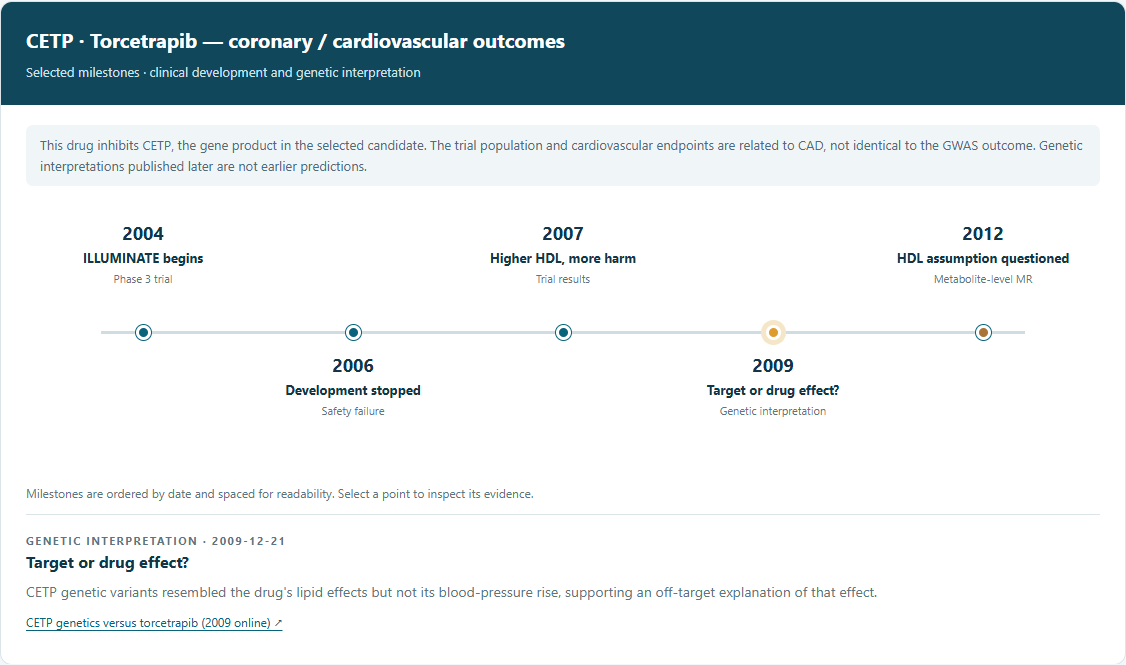
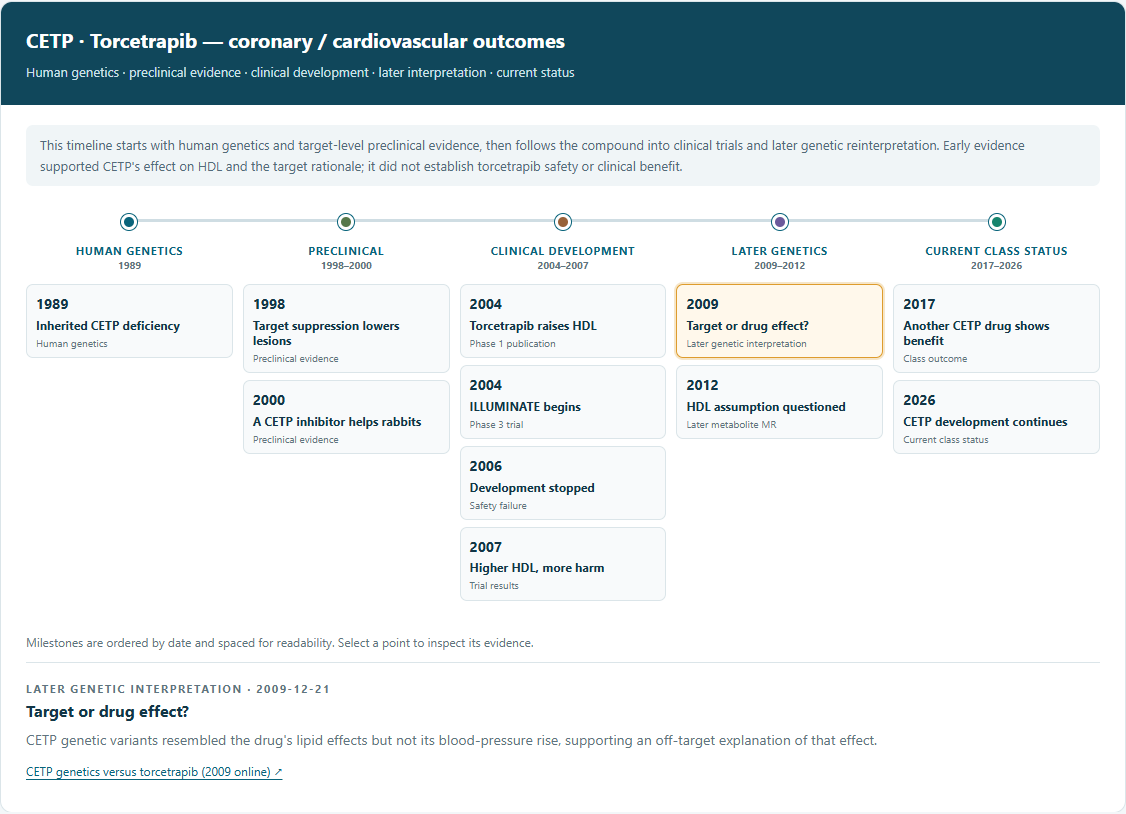
blog: show full evidence lifecycle and MVP roadmap (#2)

diff --git a/blog/metabocausal/index.html b/blog/metabocausal/index.html
@@ -16,8 +16,8 @@
 <meta property="og:url" content="https://shuchengcaoxin.github.io/blog/metabocausal/">
 <meta property="og:image" content="https://shuchengcaoxin.github.io/assets/blog/metabocausal-cetp-timeline.png">
 <meta property="og:image:width" content="1126">
-<meta property="og:image:height" content="665">
-<meta property="og:image:alt" content="A MetaboCausal timeline tracing CETP and torcetrapib from clinical development through genetic interpretation.">
+<meta property="og:image:height" content="814">
+<meta property="og:image:alt" content="A MetaboCausal timeline tracing CETP from human genetics and preclinical evidence through clinical development, later interpretation and current status.">
 <meta property="article:published_time" content="2026-09-12">
 <meta name="twitter:card" content="summary_large_image">
 <meta name="twitter:image" content="https://shuchengcaoxin.github.io/assets/blog/metabocausal-cetp-timeline.png">
@@ -75,6 +75,12 @@ figcaption{font-size:14px;line-height:1.5;color:var(--ink-3);margin-top:9px}
 .steps{display:grid;grid-template-columns:repeat(3,minmax(0,1fr));gap:10px;margin:22px 0}
 .step{background:var(--card);border:1px solid var(--line);border-radius:9px;padding:14px}
 .step b{display:block;color:var(--accent-ink);margin-bottom:5px}.step span{font-size:15px;line-height:1.5;color:var(--ink-2)}
+.roadmap{display:grid;gap:10px;margin:22px 0}
+.stage{background:var(--card);border:1px solid var(--line);border-radius:9px;padding:15px 17px}
+.stage b{display:block;font-family:var(--display);font-size:18px;margin-bottom:4px}
+.stage p{font-size:15px;line-height:1.55;color:var(--ink-2);margin:0}
+.stage .label{font-family:var(--sans);font-size:11.5px;letter-spacing:1.1px;text-transform:uppercase;color:var(--accent);margin-bottom:5px}
+.principles{padding-left:21px;margin:18px 0 24px}.principles li{margin-bottom:8px}
 .team{display:grid;grid-template-columns:repeat(2,minmax(0,1fr));gap:10px;margin:22px 0}
 .person{background:var(--card);border:1px solid var(--line);border-radius:9px;padding:14px}
 .person:first-child{grid-column:1/-1}
@@ -99,7 +105,7 @@ footer a{color:var(--ink-2);text-decoration:none}
 <article>
   <div class="kicker">MetaboCausal · Hackathon build</div>
   <h1>When a better blood marker is not a better medicine</h1>
-  <p class="standfirst">MetaboCausal connects genetic evidence to disease and drug-development history, helping teams decide what to test next.</p>
+  <p class="standfirst">MetaboCausal connects genetic evidence to disease and drug-development history, helping research and drug teams choose the next question worth testing.</p>
   <p class="byline">By <a href="/" rel="author">Shucheng Cao (Bangli Cao)</a> with the MetaboCausal team · 12 September 2026 · 4 min read</p>
 
   <h2>The problem</h2>
@@ -111,12 +117,13 @@ footer a{color:var(--ink-2);text-decoration:none}
   </div>
 
   <h2>A failure worth tracing</h2>
-  <p>Torcetrapib was designed to block CETP and raise HDL cholesterol, often called “good cholesterol.” The blood marker moved in the expected direction. But <a href="https://doi.org/10.1056/NEJMoa0706628" target="_blank" rel="noopener">the large trial was stopped ↗</a> after more deaths and cardiovascular events in the treatment group.</p>
+  <p>The story began before Phase 3. In 1989, <a href="https://pubmed.ncbi.nlm.nih.gov/2586614/" target="_blank" rel="noopener">an inherited CETP change ↗</a> was linked to much higher HDL. Target-level experiments in rabbits then <a href="https://pubmed.ncbi.nlm.nih.gov/9478952/" target="_blank" rel="noopener">reduced atherosclerotic lesions in 1998 ↗</a>, and <a href="https://pubmed.ncbi.nlm.nih.gov/10910363/" target="_blank" rel="noopener">another CETP inhibitor showed benefit in 2000 ↗</a>. These findings supported the biology, but they did not establish that torcetrapib itself would be safe or help patients.</p>
+  <p>Torcetrapib was designed to block CETP and raise HDL cholesterol, often called “good cholesterol.” A <a href="https://pubmed.ncbi.nlm.nih.gov/14739125/" target="_blank" rel="noopener">Phase 1 study published in 2004 ↗</a> showed that the blood marker moved in the expected direction. But <a href="https://doi.org/10.1056/NEJMoa0706628" target="_blank" rel="noopener">the large Phase 3 trial was stopped ↗</a> after more deaths and cardiovascular events in the treatment group.</p>
   <p>Later genetic studies helped separate two questions. One <a href="https://pubmed.ncbi.nlm.nih.gov/20026784/" target="_blank" rel="noopener">suggested that the rise in blood pressure ↗</a> was probably a drug-specific side effect. Another <a href="https://doi.org/10.1016/S0140-6736(12)60312-2" target="_blank" rel="noopener">challenged the assumption ↗</a> that raising HDL alone would automatically prevent heart attacks. A different CETP drug later <a href="https://doi.org/10.1056/NEJMoa1706444" target="_blank" rel="noopener">reduced coronary events ↗</a>. The lesson is more useful than a simple “target failed” label: <strong>the marker, the biological target and the drug itself are related, but they are not interchangeable.</strong></p>
 
   <figure>
-    <img src="/assets/blog/metabocausal-cetp-timeline.png" alt="Timeline of CETP and torcetrapib clinical development with later genetic interpretation" width="1126" height="665">
-    <figcaption>Our current recording example keeps the clinical events and later genetic interpretation on one source-linked timeline. Later evidence is labelled as later evidence; it is not presented as an earlier prediction.</figcaption>
+    <img src="/assets/blog/metabocausal-cetp-timeline.png" alt="Timeline of CETP human genetics, preclinical evidence, clinical development, later genetics and current class status" width="1126" height="814">
+    <figcaption>The corrected lifecycle view begins with human genetics and preclinical evidence, then follows clinical development, later interpretation and the target class’s current status. Target-level evidence is kept separate from evidence about one drug.</figcaption>
   </figure>
 
   <h2>What MetaboCausal does</h2>
@@ -130,15 +137,46 @@ footer a{color:var(--ink-2);text-decoration:none}
 
   <p>The system uses public research sources, including genetic databases, Europe PMC, Semantic Scholar, Open Targets and clinical-trial records. An AI model can explain the result in plain language, but the sources, numbers and dates remain visible for checking. The current integration supports OpenAI and Claude.</p>
 
-  <h2>What exists today</h2>
-  <p>For the hackathon, we built a working evidence-card pipeline, a browser demo and Slack-ready output. The first version starts from an existing table of molecule–disease results. We are now widening that evidence base through two independent literature searches, adding gene and pathway context, and turning the clinical timeline into a reusable step.</p>
+  <h2>How the product is improving</h2>
+  <p>We split the work into three MVPs—small, usable versions that each add one clear capability.</p>
+
+  <div class="roadmap" aria-label="MetaboCausal MVP roadmap">
+    <div class="stage">
+      <span class="label">MVP1 · Working core</span>
+      <b>Make one result understandable</b>
+      <p>Turn reviewed molecule–disease pairs into source-linked evidence cards, with browser and Slack output.</p>
+    </div>
+    <div class="stage">
+      <span class="label">MVP2 · Broader coverage</span>
+      <b>Find more useful questions</b>
+      <p>Expand the starting table from large studies and two independent literature searches, then match and remove repeated results before they move downstream.</p>
+    </div>
+    <div class="stage">
+      <span class="label">MVP3 · Deeper context</span>
+      <b>Connect the result to biology and development</b>
+      <p>Add gene, pathway, drug and clinical context, including Human-GEM, and rerun the same pipeline on the combined evidence.</p>
+    </div>
+  </div>
+
+  <p>This staged plan gives managers a visible product at every step, while letting technical contributors test each layer before the next one is added.</p>
+
+  <h2>What the technical design protects</h2>
+  <ul class="principles">
+    <li><strong>Traceability:</strong> dates, numbers and claims point back to sources.</li>
+    <li><strong>Separation:</strong> retrieval builds the evidence record; the AI model explains it.</li>
+    <li><strong>Challenge testing:</strong> in one Slack test, a teammate supplied a deliberately false premise. The system rejected the unsupported claim instead of inventing evidence. This passed test shows the safeguard working in that case; it is not a claim that any AI can never hallucinate.</li>
+    <li><strong>Reproducibility:</strong> the same structured pipeline can run again when new pairs arrive.</li>
+    <li><strong>Practical access:</strong> OpenAI and Claude are supported now, with user-provided model keys planned.</li>
+  </ul>
+
+  <p>The public description stays at the product level. The team’s prompts, matching rules, internal data structure and deployment details remain in the private working repository.</p>
 
   <div class="note">
     <p><strong>What it does not claim:</strong> MetaboCausal does not prove that a drug will work. It helps a team see the available evidence—and the gaps—before choosing the next test.</p>
   </div>
 
   <h2>Meet the team</h2>
-  <p>Five people are building different parts of the same evidence trail. We will add each member’s project repository as their work is published.</p>
+  <p>Five people are building different parts of the same evidence trail. The links below lead to each member’s GitHub profile; project repositories can be added as their work is published.</p>
 
   <div class="team">
     <div class="person">
@@ -149,17 +187,17 @@ footer a{color:var(--ink-2);text-decoration:none}
     <div class="person">
       <h3>Jingrui Mu</h3>
       <p>Molecule and disease matching, plus literature expansion through Europe PMC.</p>
-      <span class="soon">Project link coming soon</span>
+      <a href="https://github.com/Mujingrui" target="_blank" rel="noopener">GitHub ↗</a>
     </div>
     <div class="person">
       <h3>Ziwei He</h3>
       <p>Gene context and an independent literature search through Semantic Scholar.</p>
-      <span class="soon">Project link coming soon</span>
+      <a href="https://github.com/David-He-1998" target="_blank" rel="noopener">GitHub ↗</a>
     </div>
     <div class="person">
       <h3>Zipeng Sun</h3>
       <p>Drug and clinical context, with a Human-GEM pathway extension.</p>
-      <span class="soon">Project link coming soon</span>
+      <a href="https://github.com/zpointS" target="_blank" rel="noopener">GitHub ↗</a>
     </div>
     <div class="person">
       <h3>YinZhangHao Zhou</h3>
